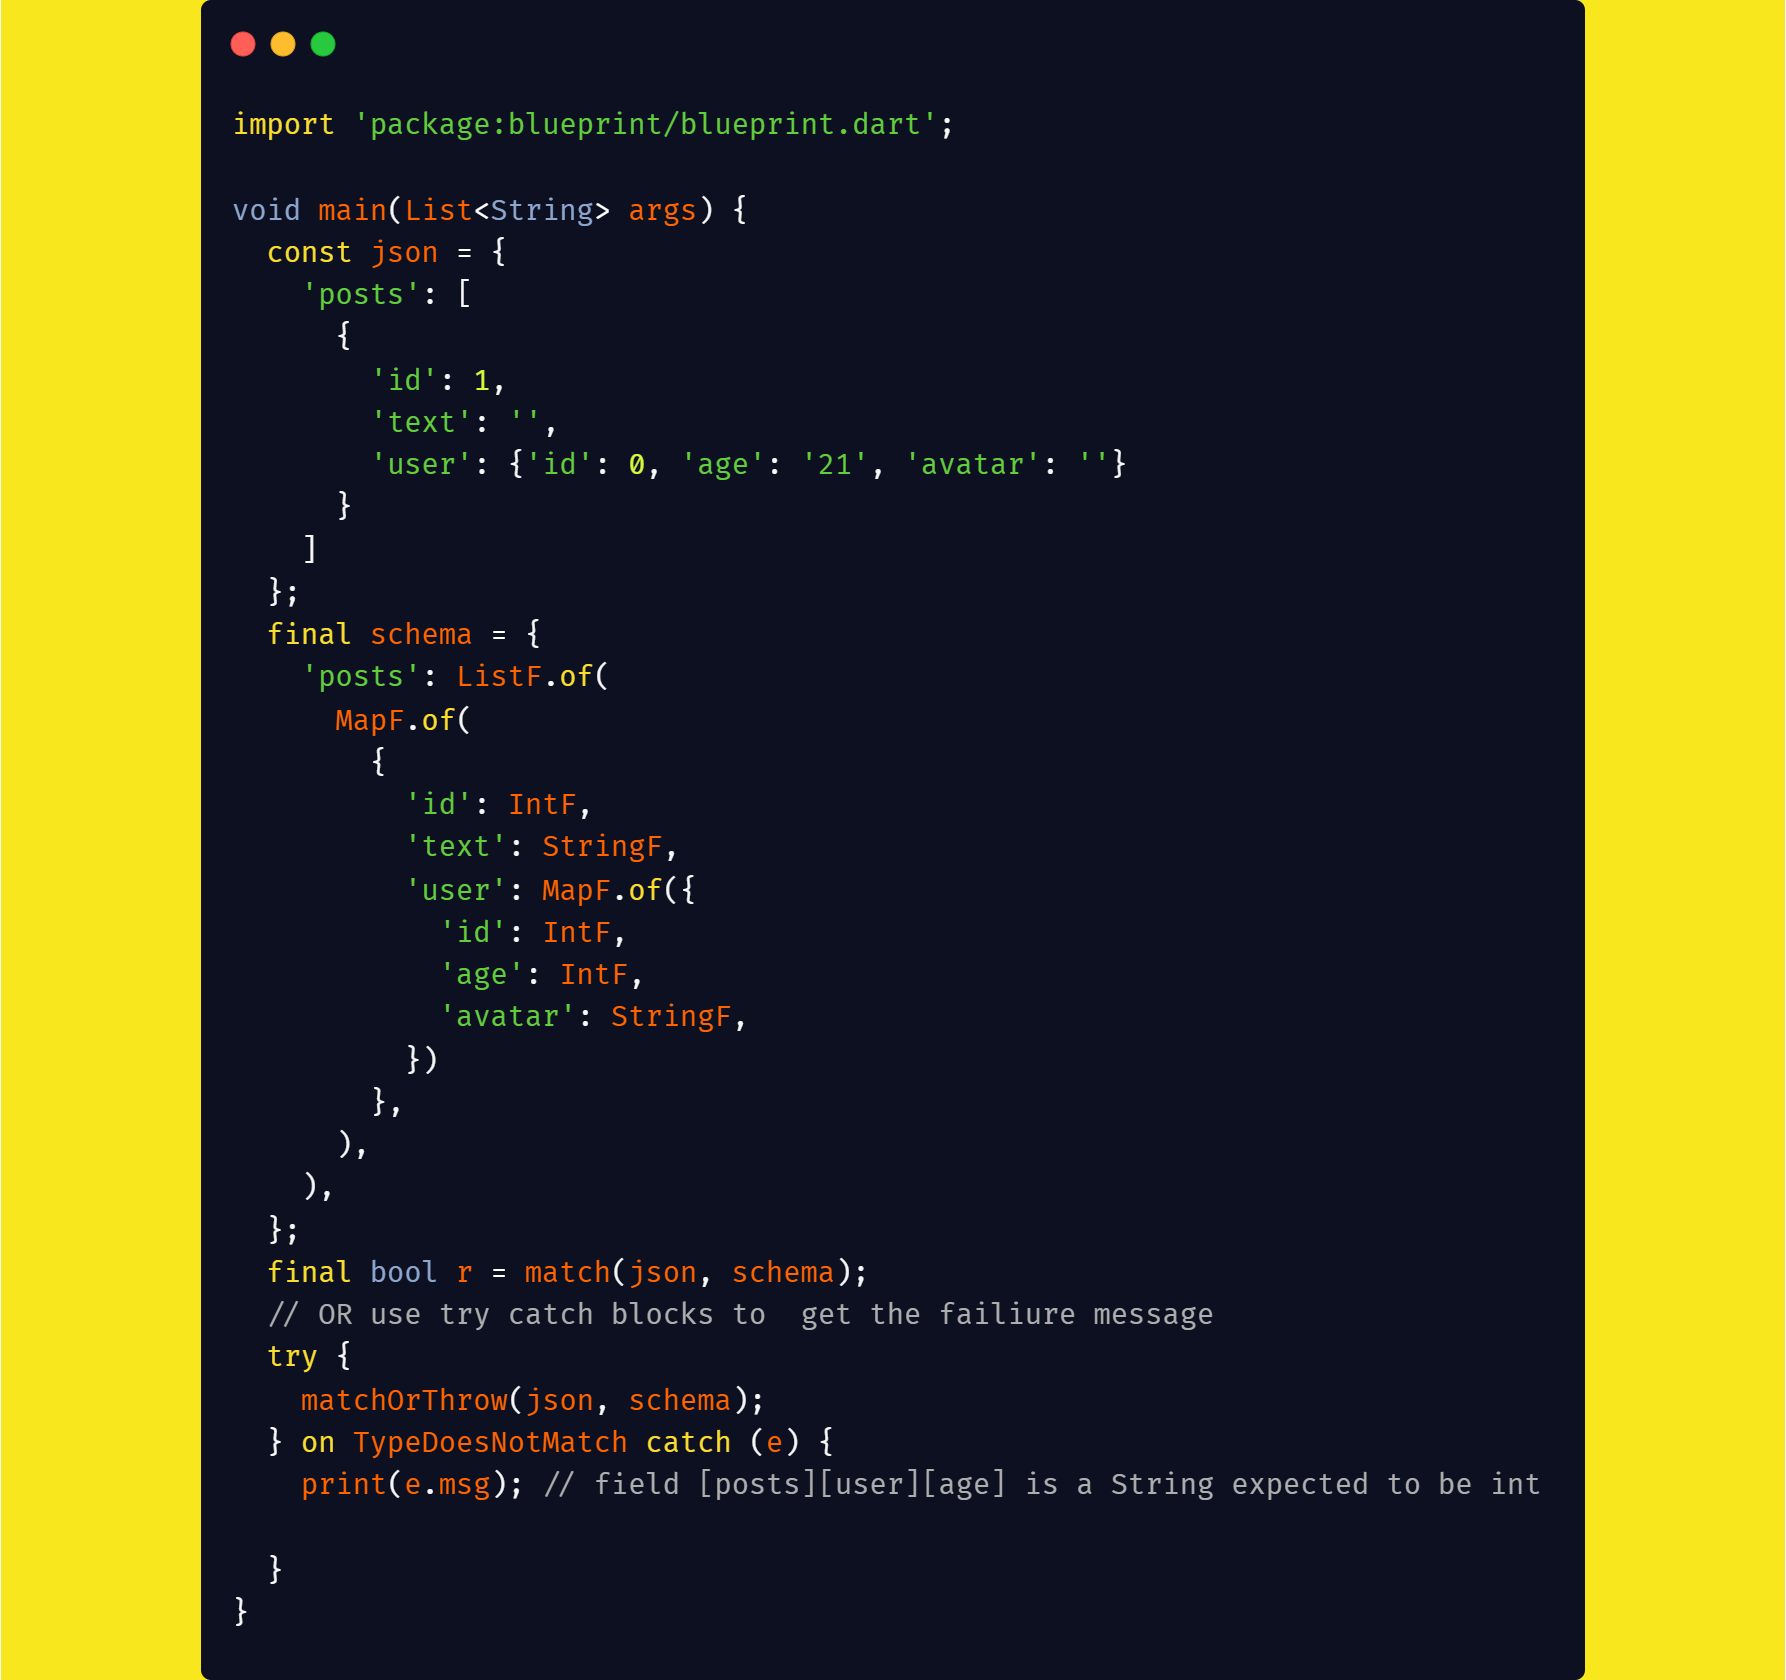
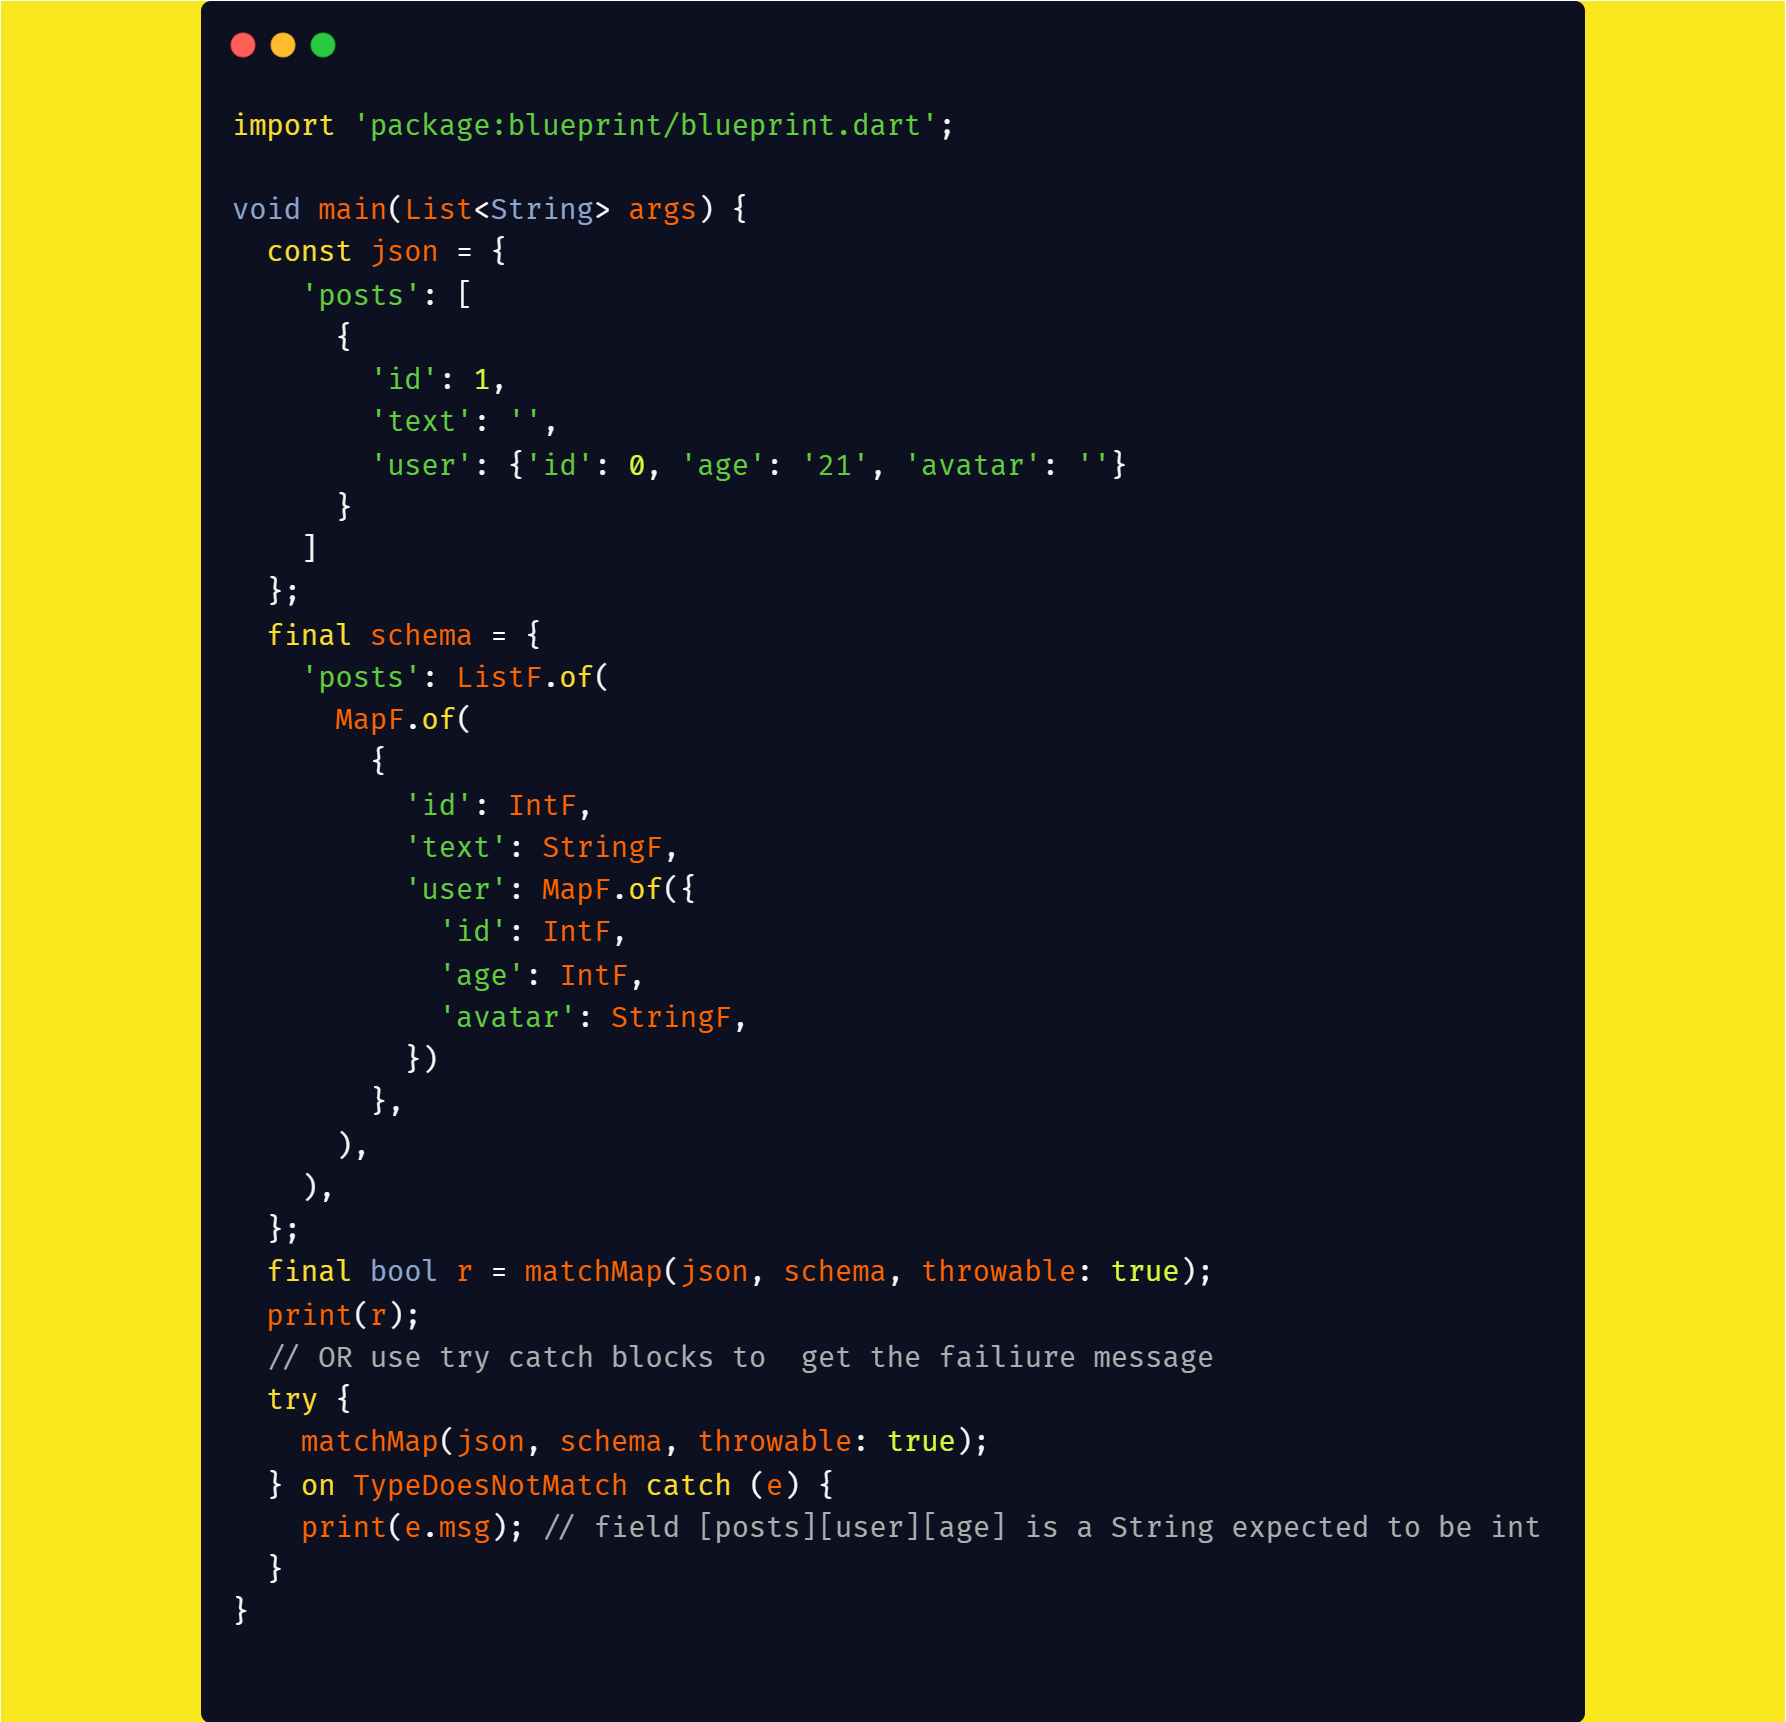
update example

diff --git a/example/bin/example.dart b/example/bin/example.dart
@@ -25,7 +25,7 @@ void main(List<String> args) {
       ),
     ),
   };
-  final bool r = matchMap(json, schema);
+  final bool r = matchMap(json, schema, throwable: true);
   print(r);
   // OR use try catch blocks to  get the failiure message
   try {
